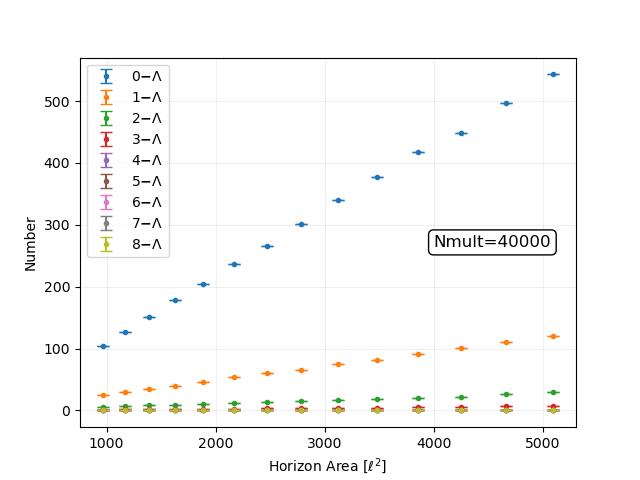
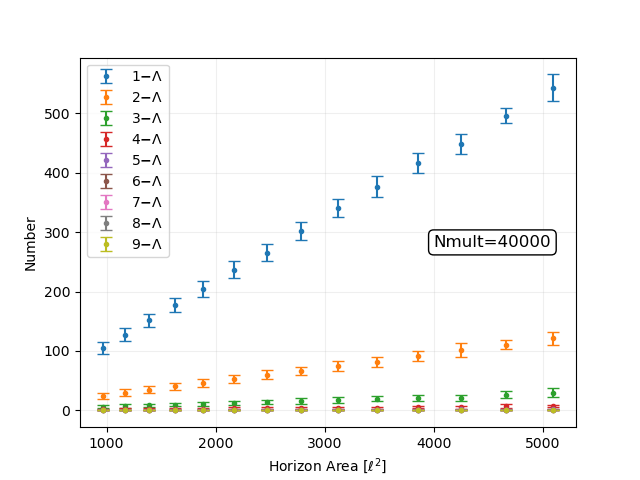
Final plotting code, lambd plots produced

diff --git a/scripts_py/plot_molecule_distribution.py b/scripts_py/plot_molecule_distribution.py
@@ -43,7 +43,6 @@ else:
 
 # an entry for each rho
 varying_values = []
-Nreps = []
 outermosts = []
 outermosts_std = []
 innermosts = []
@@ -122,7 +121,7 @@ for root, dirs, files in os.walk(dataDir):
                 for n in range(ntypes_i):
                     avgs_mol_n_i = mol_info_i[:,2*n]
                     stds_mol_n_i = mol_info_i[:,2*n+1]
-                    n_mol_n_i, std_mol_n_i = ch.combine_meass(Nreps,
+                    n_mol_n_i, std_mol_n_i = ch.combine_meass(Nreps_i,
                                                             avgs_mol_n_i,
                                                             stds_mol_n_i)
                     # if the nth molecule had already been found
@@ -147,9 +146,7 @@ for l,ls in zip(molecules_distr, molecules_distr_std):
 ##############################################################################
 # 2. PLOT
 ##############################################################################
-print("loop done")
-print(varying_values)
-print(molecules_distr)
+
 x = np.array(varying_values)
 if varying_var=="M":
     x = 4*np.pi*(2*x)**2 #==Area
@@ -189,6 +186,7 @@ if plot_boundaries:
     plt.errorbar(x, innermosts, innermosts_std, 
                 fmt = '.', ls = 'dashed', capsize = 4, 
                 zorder = 5)
+                
     props = dict(boxstyle='round', facecolor='wheat', edgecolor = 'grey', 
                 ls = '', alpha=0.2)
     ax.text(0.95, 0.05, fixed_string, transform=ax.transAxes, fontsize=10, 
@@ -215,16 +213,53 @@ if plot_boundaries:
     plt.savefig(plotsDir + f"{fixed_string}_Boundaries.png")
     plt.show()
 
-
+print(molecules_distr_std)
 # 2.1 MOLECULES'S DISTRIBUTION ##############################################
+print("")
 if plot_molecules:
 
     plt.figure(f"Molecules for {fixed_string}")
+
+    gradients = []
     for n in range(len(molecules_distr)):
         y    = molecules_distr[n]
         yerr = molecules_distr_std[n]
         label = ("Open HRV" if n==0 else "Closed HRV ") if molecules == "HRVs" \
-                else str(n) + r"$\mathbf{-}\Lambda$"
+                else str(n+1) + r"$\mathbf{-}\Lambda$"
+        plt.errorbar(x, y, yerr, 
+                    fmt = '.', capsize = 4, 
+                    label = label)
+        # Linear fit
+        coef = np.polyfit(x,y,1)
+        print(f"Gradient factor for {n+1}-lambda = {round(coef[0],8)}")
+        poly1d_fn = np.poly1d(coef) 
+        xfit = np.linspace(min(x),max(x),100)
+        #plt.plot(xfit, poly1d_fn(xfit), '--', color="red")
+        gradients.append(coef[0])
+
+    coefsum = sum([(n+1)*gradients[n] for n in range(len(gradients))])
+    print(f"\nGradients weighted sum = {round(coefsum,8)}")
+
+    props = dict(boxstyle='round', facecolor='white', edgecolor = 'black', 
+                ls = '-', alpha=1)
+    plt.annotate(fixed_string, (0.95, 0.5), xycoords = "axes fraction",
+            fontsize=12, va='center', ha = 'right', bbox=props)
+    plt.legend()
+    plt.xlabel(r'Horizon Area $[\ell^2]$') #not yet in terms of l^2
+    plt.ylabel("Number")
+    plt.grid(alpha = 0.2)
+    plt.savefig(plotsDir + f"{fixed_string}_{molecules}.png") 
+    plt.show()
+
+
+
+
+    plt.figure(f"Large molecules for {fixed_string}")
+    for n in range(3, len(molecules_distr)):
+        y    = molecules_distr[n]
+        yerr = molecules_distr_std[n]
+        label = ("Open HRV" if n==0 else "Closed HRV ") if molecules == "HRVs" \
+                else str(n+1) + r"$\mathbf{-}\Lambda$"
         plt.errorbar(x, y, yerr, 
                     fmt = '.', capsize = 4, 
                     label = label)
@@ -236,7 +271,7 @@ if plot_molecules:
     plt.xlabel(r'Horizon Area $[\ell^2]$') #not yet in terms of l^2
     plt.ylabel("Number")
     plt.grid(alpha = 0.2)
-    plt.savefig(plotsDir + f"{fixed_string}_{molecules}.png") 
+    plt.savefig(plotsDir + f"{fixed_string}_large_{molecules}.png") 
     plt.show()
 
 
